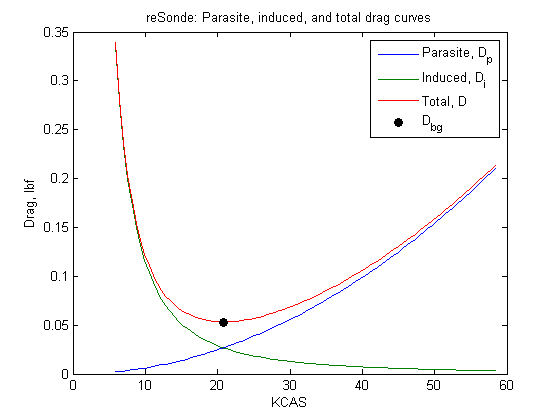
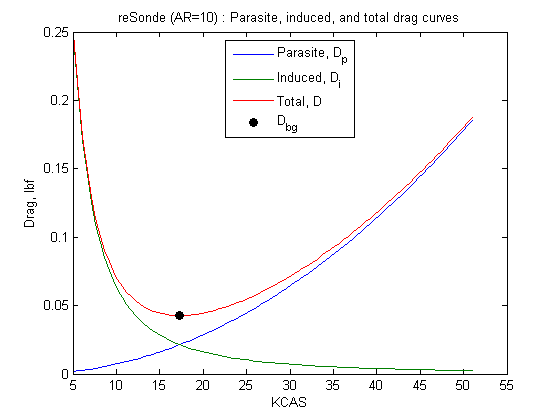
update preliminary sizing and delete resonde.html

diff --git a/resonde/preliminary_sizing.html b/resonde/preliminary_sizing.html
@@ -6,7 +6,7 @@
    <!--
 This HTML was auto-generated from MATLAB code.
 To make changes, update the MATLAB code and republish this document.
-      --><title>Preliminary Sizing for reSonde</title><meta name="generator" content="MATLAB 7.14"><link rel="schema.DC" href="http://purl.org/dc/elements/1.1/"><meta name="DC.date" content="2013-02-18"><meta name="DC.source" content="preliminary_sizing.m"><style type="text/css">
+      --><title>Preliminary Sizing for reSonde</title><meta name="generator" content="MATLAB 8.0"><link rel="schema.DC" href="http://purl.org/dc/elements/1.1/"><meta name="DC.date" content="2013-04-08"><meta name="DC.source" content="preliminary_sizing.m"><style type="text/css">
 html,body,div,span,applet,object,iframe,h1,h2,h3,h4,h5,h6,p,blockquote,pre,a,abbr,acronym,address,big,cite,code,del,dfn,em,font,img,ins,kbd,q,s,samp,small,strike,strong,sub,sup,tt,var,b,u,i,center,dl,dt,dd,ol,ul,li,fieldset,form,label,legend,table,caption,tbody,tfoot,thead,tr,th,td{margin:0;padding:0;border:0;outline:0;font-size:100%;vertical-align:baseline;background:transparent}body{line-height:1}ol,ul{list-style:none}blockquote,q{quotes:none}blockquote:before,blockquote:after,q:before,q:after{content:'';content:none}:focus{outine:0}ins{text-decoration:none}del{text-decoration:line-through}table{border-collapse:collapse;border-spacing:0}
 
 html { min-height:100%; margin-bottom:1px; }
@@ -54,51 +54,69 @@ span.syscmd { color:#B28C00 }
 
 .footer { width:auto; padding:10px 0px; margin:25px 0px 0px; border-top:1px dotted #878787; font-size:0.8em; line-height:140%; font-style:italic; color:#878787; text-align:left; float:none; }
 .footer p { margin:0px; }
+.footer a { color:#878787; }
+.footer a:hover { color:#878787; text-decoration:underline; }
+.footer a:visited { color:#878787; }
 
-  </style></head><body><div class="content"><h1>Preliminary Sizing for reSonde</h1><!--introduction--><!--/introduction--><h2>Contents</h2><div><ul><li><a href="#1">Aircraft Parameters</a></li><li><a href="#2">Conditions</a></li><li><a href="#3">Mission Profile</a></li><li><a href="#4">Calculate atmospheric parameters based on altitude using <tt>atmoscoesa</tt>:</a></li><li><a href="#5">Best glide speed:</a></li><li><a href="#6">Best glide slope:</a></li><li><a href="#7">Best glide lift and drag:</a></li><li><a href="#8">Verification</a></li></ul></div><h2>Aircraft Parameters<a name="1"></a></h2><pre class="codeinput">clear, clc, close <span class="string">all</span>
-m_merlin_vehicle=convmass(0.385,<span class="string">'kg'</span>,<span class="string">'slug'</span>); <span class="comment">% Merlin glider, flight ready,with gopro, no motor</span>
+table th { padding:7px 5px; text-align:left; vertical-align:middle; border: 1px solid #d6d4d4; font-weight:bold; }
+table td { padding:7px 5px; text-align:left; vertical-align:top; border:1px solid #d6d4d4; }
+
+
+
+
+
+  </style></head><body><div class="content"><h1>Preliminary Sizing for reSonde</h1><!--introduction--><!--/introduction--><h2>Contents</h2><div><ul><li><a href="#1">Aircraft Parameters</a></li><li><a href="#2">Conditions</a></li><li><a href="#3">Calculate atmospheric parameters:</a></li><li><a href="#4">Best glide speed:</a></li><li><a href="#5">Best glide slope:</a></li><li><a href="#6">Best glide lift and drag:</a></li><li><a href="#7">Verification</a></li></ul></div><h2>Aircraft Parameters<a name="1"></a></h2><pre class="codeinput">clear, clc, close <span class="string">all</span>
+configTitle=<span class="string">'reSonde (AR=10)'</span>;
+m_merlin_vehicle=getreSondeMass();
 W = m_merlin_vehicle * 32.2; <span class="comment">% weight, lbf</span>
-b = 31/12; <span class="comment">% merlin span, ft</span>
-S = 175/12^2;  <span class="comment">% merlin wing reference area, ft^2;</span>
-c = S/b; <span class="comment">% wing mac</span>
-AR = b^2/S; <span class="comment">% wing aspect ratio</span>
+<span class="comment">% New Wing</span>
+c = 4.5/12; <span class="comment">%S/b; % wing mac, ft</span>
+AR = 10; <span class="comment">%b^2/S; % wing aspect ratio</span>
+b= AR*c;
+S=b*c;
+<span class="comment">% Old Wing</span>
+<span class="comment">% b = 31/12; % merlin span, ft</span>
+<span class="comment">% S = 175/12^2;  % merlin wing reference area, ft^2;</span>
+<span class="comment">% c = S/b % wing mac</span>
+<span class="comment">% AR = b^2/S % wing aspect ratio</span>
+
 C_D0 = 0.0150; <span class="comment">% guess, flaps up parasite drag coefficient</span>
 e = 1.78*(1-.045*AR^0.68)-0.64; <span class="comment">% airplane efficiency factor, Raymer p347</span>
-</pre><h2>Conditions<a name="2"></a></h2><pre class="codeinput">h = 1000; <span class="comment">% altitude, ft</span>
+</pre><h2>Conditions<a name="2"></a></h2><pre class="codeinput">h = 10000; <span class="comment">% altitude, ft</span>
 mu = 1.81E-5; <span class="comment">% kg/(m*s) viscosity of air at 15degC</span>
 h_m = convlength(h,<span class="string">'ft'</span>,<span class="string">'m'</span>);
 phi = 0; <span class="comment">% bank angle, deg</span>
-</pre><h2>Mission Profile<a name="3"></a></h2><p>wind=convvel(5,'kts','m/s'); buoy=convvel(1000,'ft/min','m/s'); h_max=convlength(100000,'ft','m');</p><h2>Calculate atmospheric parameters based on altitude using <tt>atmoscoesa</tt>:<a name="4"></a></h2><p>atmoscoesa is basically ICAO data plus data for &gt;60,000ft</p><pre class="codeinput">[T, a, P, rho] = atmoscoesa(h_m, <span class="string">'Warning'</span>);
+</pre><h2>Calculate atmospheric parameters:<a name="3"></a></h2><p>atmoscoesa is basically ICAO data plus data for &gt;60,000ft</p><pre class="codeinput">[T, a, P, rho] = atmoscoesa(h_m, <span class="string">'Warning'</span>);
 rho_imperial = convdensity(rho,<span class="string">'kg/m^3'</span>,<span class="string">'slug/ft^3'</span>);
-</pre><h2>Best glide speed:<a name="5"></a></h2><pre class="codeinput">TAS_bg = sqrt((2*W) / (rho_imperial*S))<span class="keyword">...</span>
+</pre><h2>Best glide speed:<a name="4"></a></h2><pre class="codeinput">TAS_bg = sqrt((2*W) / (rho_imperial*S))<span class="keyword">...</span>
          *(1./(4*C_D0.^2 + C_D0.*pi*e*AR*cos(phi)^2)).^(1/4); <span class="comment">% TAS, fps</span>
 KTAS_bg = convvel(TAS_bg,<span class="string">'ft/s'</span>,<span class="string">'kts'</span>)';
 KCAS_bg = correctairspeed(KTAS_bg,a,P,<span class="string">'TAS'</span>,<span class="string">'CAS'</span>)';
 V_bg = convvel(TAS_bg,<span class="string">'ft/s'</span>,<span class="string">'m/s'</span>); <span class="comment">% TAS, m/s</span>
 mach_bg = machnumber([V_bg,0,0],a); <span class="comment">% mach number</span>
 Re_bg = rho*V_bg*c/mu; <span class="comment">% Reynolds # at best glide speed</span>
-</pre><h2>Best glide slope:<a name="6"></a></h2><pre class="codeinput">LODmax=1/2*sqrt(pi*AR*e/C_D0)
+</pre><h2>Best glide slope:<a name="5"></a></h2><pre class="codeinput">LODmax=1/2*sqrt(pi*AR*e/C_D0)
 gamma_bg_rad = asin( -sqrt((4.*C_D0')./(pi*e*AR*cos(phi)^2 + 4.*C_D0')) );
 gamma_bg = convang(gamma_bg_rad,<span class="string">'rad'</span>,<span class="string">'deg'</span>) <span class="comment">% best glide slope, deg</span>
 
 <span class="comment">% nmi range gliding from 40,000ft</span>
-range_bg=40000/tand(-gamma_bg)/5280
+range_bg=40000/tand(-gamma_bg)/5280 <span class="comment">% range, miles</span>
 </pre><pre class="codeoutput">
 LODmax =
 
-   15.9515
+   19.9039
 
 
 gamma_bg =
 
-   -3.5872
+   -2.8762
 
 
 range_bg =
 
-  120.8449
+  150.7869
 
-</pre><h2>Best glide lift and drag:<a name="7"></a></h2><pre class="codeinput">D_bg = -W*sin(gamma_bg_rad);
+</pre><h2>Best glide lift and drag:<a name="6"></a></h2><pre class="codeinput">D_bg = -W*sin(gamma_bg_rad);
 L_bg =  W*cos(gamma_bg_rad);
 
 qbar = dpressure([TAS_bg' zeros(size(TAS_bg,2),2)], rho_imperial);
@@ -119,9 +137,9 @@ C_D_bg =
 
 C_L_bg =
 
-    0.4785
+    0.5971
 
-</pre><h2>Verification<a name="8"></a></h2><p>Plots to make sure my calcs are right:</p><pre class="codeinput">TAS = (10:100)'; <span class="comment">% true airspeed, fps</span>
+</pre><h2>Verification<a name="7"></a></h2><p>Plots to make sure my calcs are right:</p><pre class="codeinput">TAS = (10:100)'; <span class="comment">% true airspeed, fps</span>
 KTAS = convvel(TAS,<span class="string">'ft/s'</span>,<span class="string">'kts'</span>)'; <span class="comment">% true airspeed, kts</span>
 KCAS = correctairspeed(KTAS,a,P,<span class="string">'TAS'</span>,<span class="string">'CAS'</span>)'; <span class="comment">% corrected airspeed, kts</span>
 qbar = dpressure([TAS zeros(size(TAS,1),2)], rho_imperial);
@@ -133,7 +151,7 @@ alp_bg=C_L_bg/(2*pi)*180/pi;
 L = W;
 </pre><p><b>Plot L/D versus KCAS</b></p><pre class="codeinput">h1 = figure(1); clf
 plot(KCAS,L./D);
-title(<span class="string">'reSonde: L/D vs. KCAS'</span>);
+title([configTitle,<span class="string">' : L/D vs. KCAS'</span>]);
 xlabel(<span class="string">'KCAS'</span>); ylabel(<span class="string">'L/D'</span>);
 hold <span class="string">on</span>
 plot(KCAS_bg,L_bg/D_bg,<span class="string">'Marker'</span>,<span class="string">'o'</span>,<span class="string">'MarkerFaceColor'</span>,<span class="string">'black'</span>,<span class="keyword">...</span>
@@ -143,7 +161,7 @@ legend(<span class="string">'L/D'</span>,<span class="string">'L_{bg}/D_{bg}'</s
 <span class="comment">% annotation('textarrow',[0.4225 0.4225],[0.23 0.12],'String','TAS_{bg}');</span>
 </pre><img vspace="5" hspace="5" src="preliminary_sizing_01.png" alt=""> <p><b>Plot parasite, induced, and total drag curves</b></p><pre class="codeinput">h2 = figure(2); clf
 plot(KCAS,Dp,KCAS,Di,KCAS,D);
-title(<span class="string">'reSonde: Parasite, induced, and total drag curves'</span>);
+title([configTitle,<span class="string">' : Parasite, induced, and total drag curves'</span>]);
 xlabel(<span class="string">'KCAS'</span>); ylabel(<span class="string">'Drag, lbf'</span>);
 hold <span class="string">on</span>
 plot(KCAS_bg,D_bg,<span class="string">'Marker'</span>,<span class="string">'o'</span>,<span class="string">'MarkerFaceColor'</span>,<span class="string">'black'</span>,<span class="keyword">...</span>
@@ -151,32 +169,37 @@ plot(KCAS_bg,D_bg,<span class="string">'Marker'</span>,<span class="string">'o'<
 hold <span class="string">off</span>
 legend(<span class="string">'Parasite, D_p'</span>,<span class="string">'Induced, D_i'</span>,<span class="string">'Total, D'</span>,<span class="string">'D_{bg}'</span>,<span class="string">'Location'</span>,<span class="string">'Best'</span>);
 <span class="comment">% annotation('textarrow',[0.4225 0.4225],[0.23 0.12],'String','TAS_{bg}');</span>
-</pre><img vspace="5" hspace="5" src="preliminary_sizing_02.png" alt=""> <p class="footer"><br>
-      Published with MATLAB&reg; 7.14<br></p></div><!--
+print(h1,<span class="string">'-dpdf'</span>,[<span class="string">'Fig1 - L_D vs KCAS '</span>,configTitle])
+print(h2,<span class="string">'-dpdf'</span>,[<span class="string">'Fig2 - Drag Buildup vs KCAS '</span>,configTitle])
+</pre><img vspace="5" hspace="5" src="preliminary_sizing_02.png" alt=""> <p class="footer"><br><a href="http://www.mathworks.com/products/matlab/">Published with MATLAB&reg; R2012b</a><br></p></div><!--
 ##### SOURCE BEGIN #####
 %% Preliminary Sizing for reSonde
 
 %% Aircraft Parameters
 clear, clc, close all
-m_merlin_vehicle=convmass(0.385,'kg','slug'); % Merlin glider, flight ready,with gopro, no motor
+configTitle='reSonde (AR=10)';
+m_merlin_vehicle=getreSondeMass();
 W = m_merlin_vehicle * 32.2; % weight, lbf
-b = 31/12; % merlin span, ft
-S = 175/12^2;  % merlin wing reference area, ft^2;
-c = S/b; % wing mac
-AR = b^2/S; % wing aspect ratio
+% New Wing
+c = 4.5/12; %S/b; % wing mac, ft
+AR = 10; %b^2/S; % wing aspect ratio
+b= AR*c;
+S=b*c;
+% Old Wing
+% b = 31/12; % merlin span, ft
+% S = 175/12^2;  % merlin wing reference area, ft^2;
+% c = S/b % wing mac
+% AR = b^2/S % wing aspect ratio
+
 C_D0 = 0.0150; % guess, flaps up parasite drag coefficient
 e = 1.78*(1-.045*AR^0.68)-0.64; % airplane efficiency factor, Raymer p347
 %% Conditions
-h = 1000; % altitude, ft
+h = 10000; % altitude, ft
 mu = 1.81E-5; % kg/(m*s) viscosity of air at 15degC
 h_m = convlength(h,'ft','m');
 phi = 0; % bank angle, deg
 
-%% Mission Profile
-% wind=convvel(5,'kts','m/s');
-% buoy=convvel(1000,'ft/min','m/s');
-% h_max=convlength(100000,'ft','m');
-%% Calculate atmospheric parameters based on altitude using |atmoscoesa|:
+%% Calculate atmospheric parameters:
 % atmoscoesa is basically ICAO data plus data for >60,000ft
 [T, a, P, rho] = atmoscoesa(h_m, 'Warning');
 rho_imperial = convdensity(rho,'kg/m^3','slug/ft^3');
@@ -194,7 +217,7 @@ gamma_bg_rad = asin( -sqrt((4.*C_D0')./(pi*e*AR*cos(phi)^2 + 4.*C_D0')) );
 gamma_bg = convang(gamma_bg_rad,'rad','deg') % best glide slope, deg
 
 % nmi range gliding from 40,000ft
-range_bg=40000/tand(-gamma_bg)/5280
+range_bg=40000/tand(-gamma_bg)/5280 % range, miles
 
 %% Best glide lift and drag:
 D_bg = -W*sin(gamma_bg_rad);
@@ -226,7 +249,7 @@ L = W;
 % *Plot L/D versus KCAS*
 h1 = figure(1); clf
 plot(KCAS,L./D);
-title('reSonde: L/D vs. KCAS');
+title([configTitle,' : L/D vs. KCAS']);
 xlabel('KCAS'); ylabel('L/D');
 hold on
 plot(KCAS_bg,L_bg/D_bg,'Marker','o','MarkerFaceColor','black',...
@@ -238,7 +261,7 @@ legend('L/D','L_{bg}/D_{bg}','Location','Best');
 % *Plot parasite, induced, and total drag curves*
 h2 = figure(2); clf
 plot(KCAS,Dp,KCAS,Di,KCAS,D); 
-title('reSonde: Parasite, induced, and total drag curves');
+title([configTitle,' : Parasite, induced, and total drag curves']);
 xlabel('KCAS'); ylabel('Drag, lbf'); 
 hold on
 plot(KCAS_bg,D_bg,'Marker','o','MarkerFaceColor','black',...
@@ -246,7 +269,8 @@ plot(KCAS_bg,D_bg,'Marker','o','MarkerFaceColor','black',...
 hold off
 legend('Parasite, D_p','Induced, D_i','Total, D','D_{bg}','Location','Best');
 % annotation('textarrow',[0.4225 0.4225],[0.23 0.12],'String','TAS_{bg}');
-
+print(h1,'-dpdf',['Fig1 - L_D vs KCAS ',configTitle])
+print(h2,'-dpdf',['Fig2 - Drag Buildup vs KCAS ',configTitle])
 
 ##### SOURCE END #####
 --></body></html>
